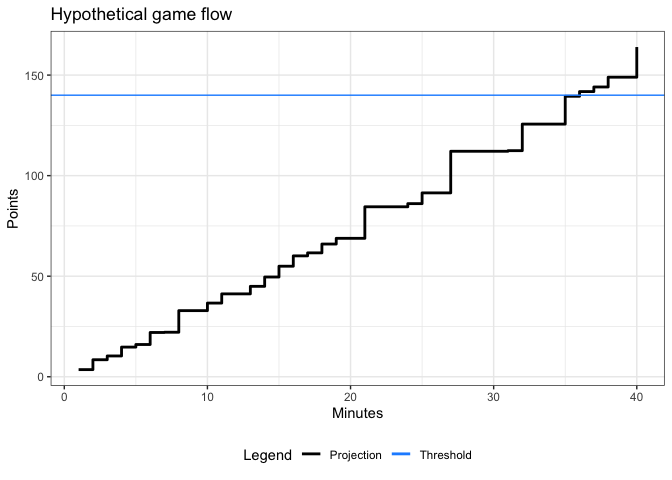
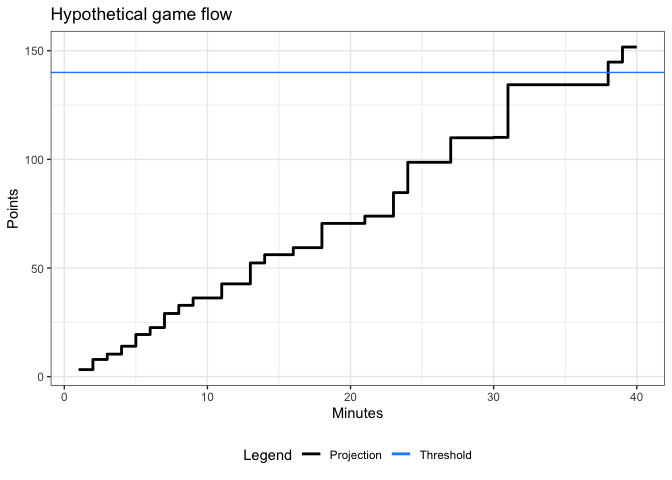
add minor readme and vignette changes

Changed region(s): [[0.0312, 0.0938, 1.0, 0.75], [0.0312, 0.5312, 0.0625, 0.5938], [0.0312, 0.3125, 0.0625, 0.375]]

diff --git a/README.md b/README.md
@@ -33,8 +33,8 @@ total: calculates expected points scored for a game
 
 live: adjusts expected points based on what has happened in the game
 
-train: calculates parameters to pass into total & live for specific
-teams
+train: calculates parameters to pass into the other functions for
+specific teams
 
 plotTotal: creates a hypothetical scoring flow plot
 
@@ -45,13 +45,13 @@ Here are a few quick examples:
 ``` r
 library(hoopTotals)
 total(3.5,5)
-#> [1] 139.6454
+#> [1] 139.0054
 ```
 
 ``` r
 live(3.5, 5, 20, 76, 152)
 #> $exp.pts
-#> [1] 145.7068
+#> [1] 145.3691
 #> 
 #> $prob
 #> [1] 0.2926388
@@ -65,3 +65,5 @@ plotTotal(3.5, 5, 140, 144.5)
 ```
 
 <img src="man/figures/README-plot-1.png" width="100%" />
+
+Please see the vignette or documentation for more information.
